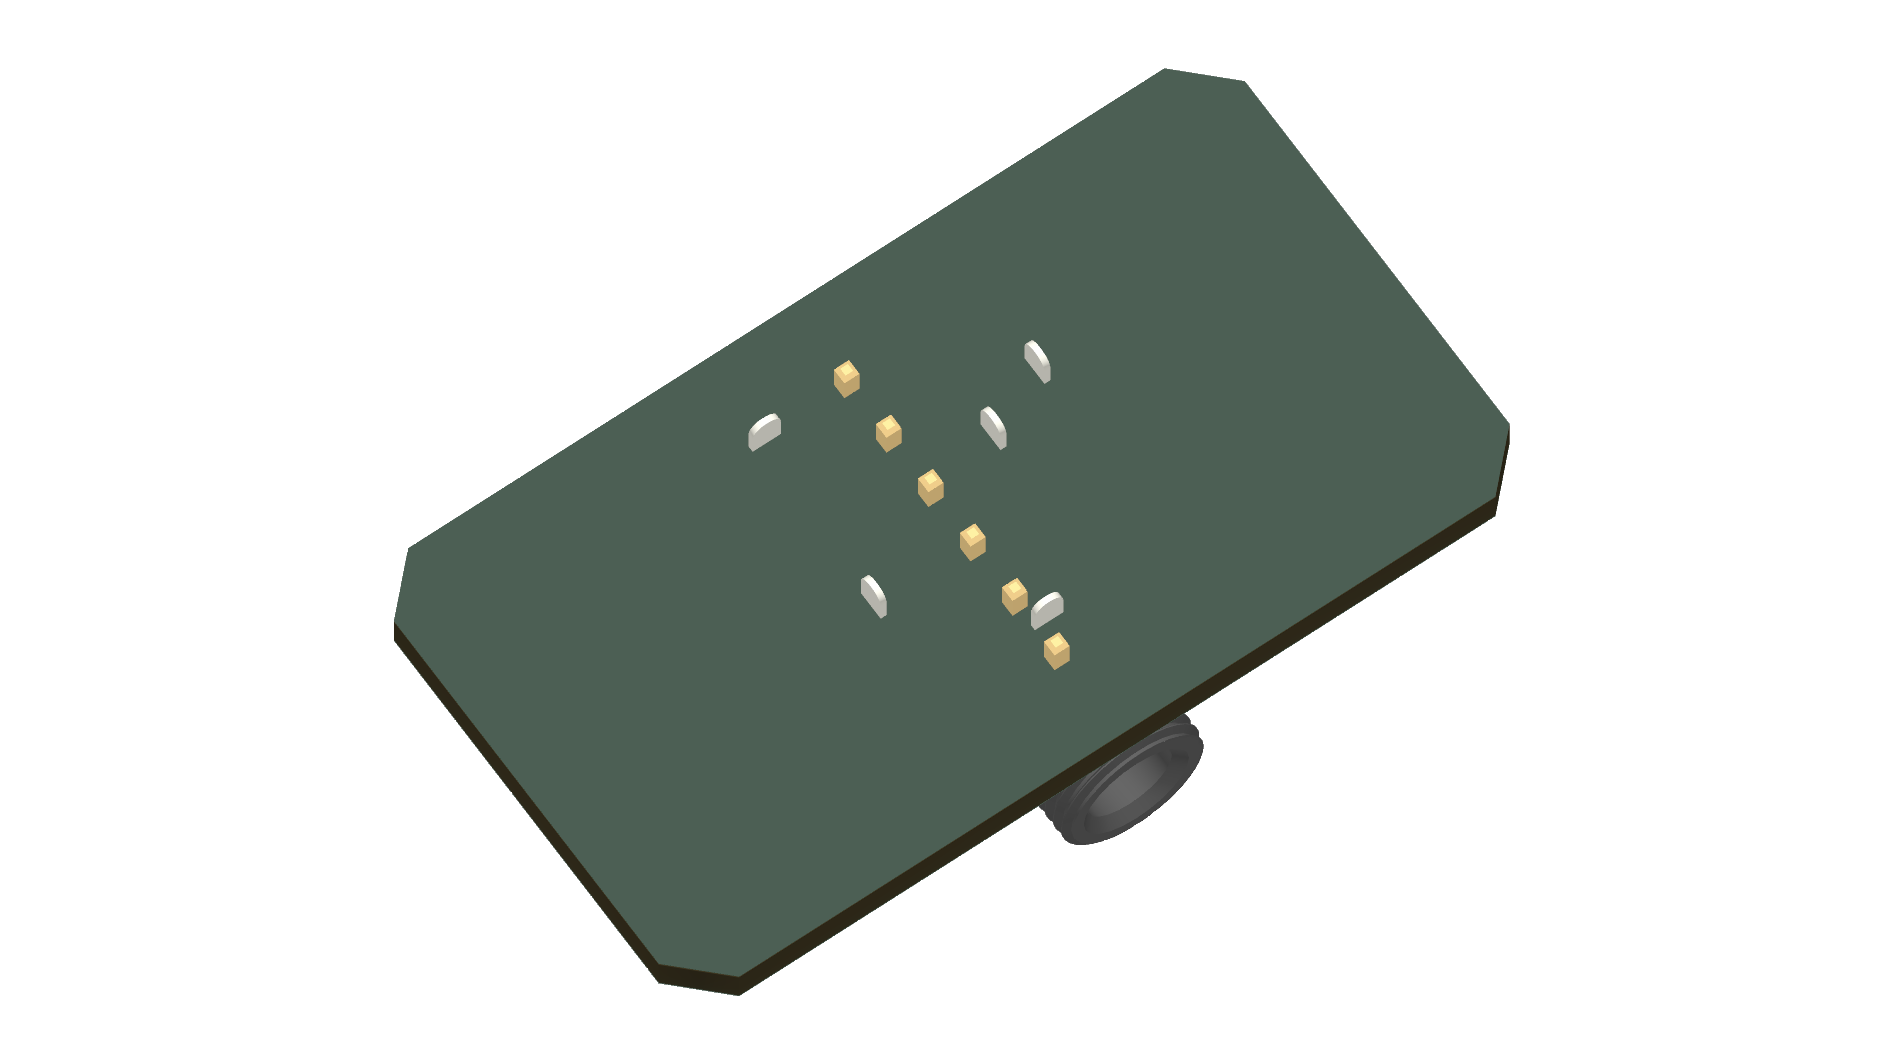
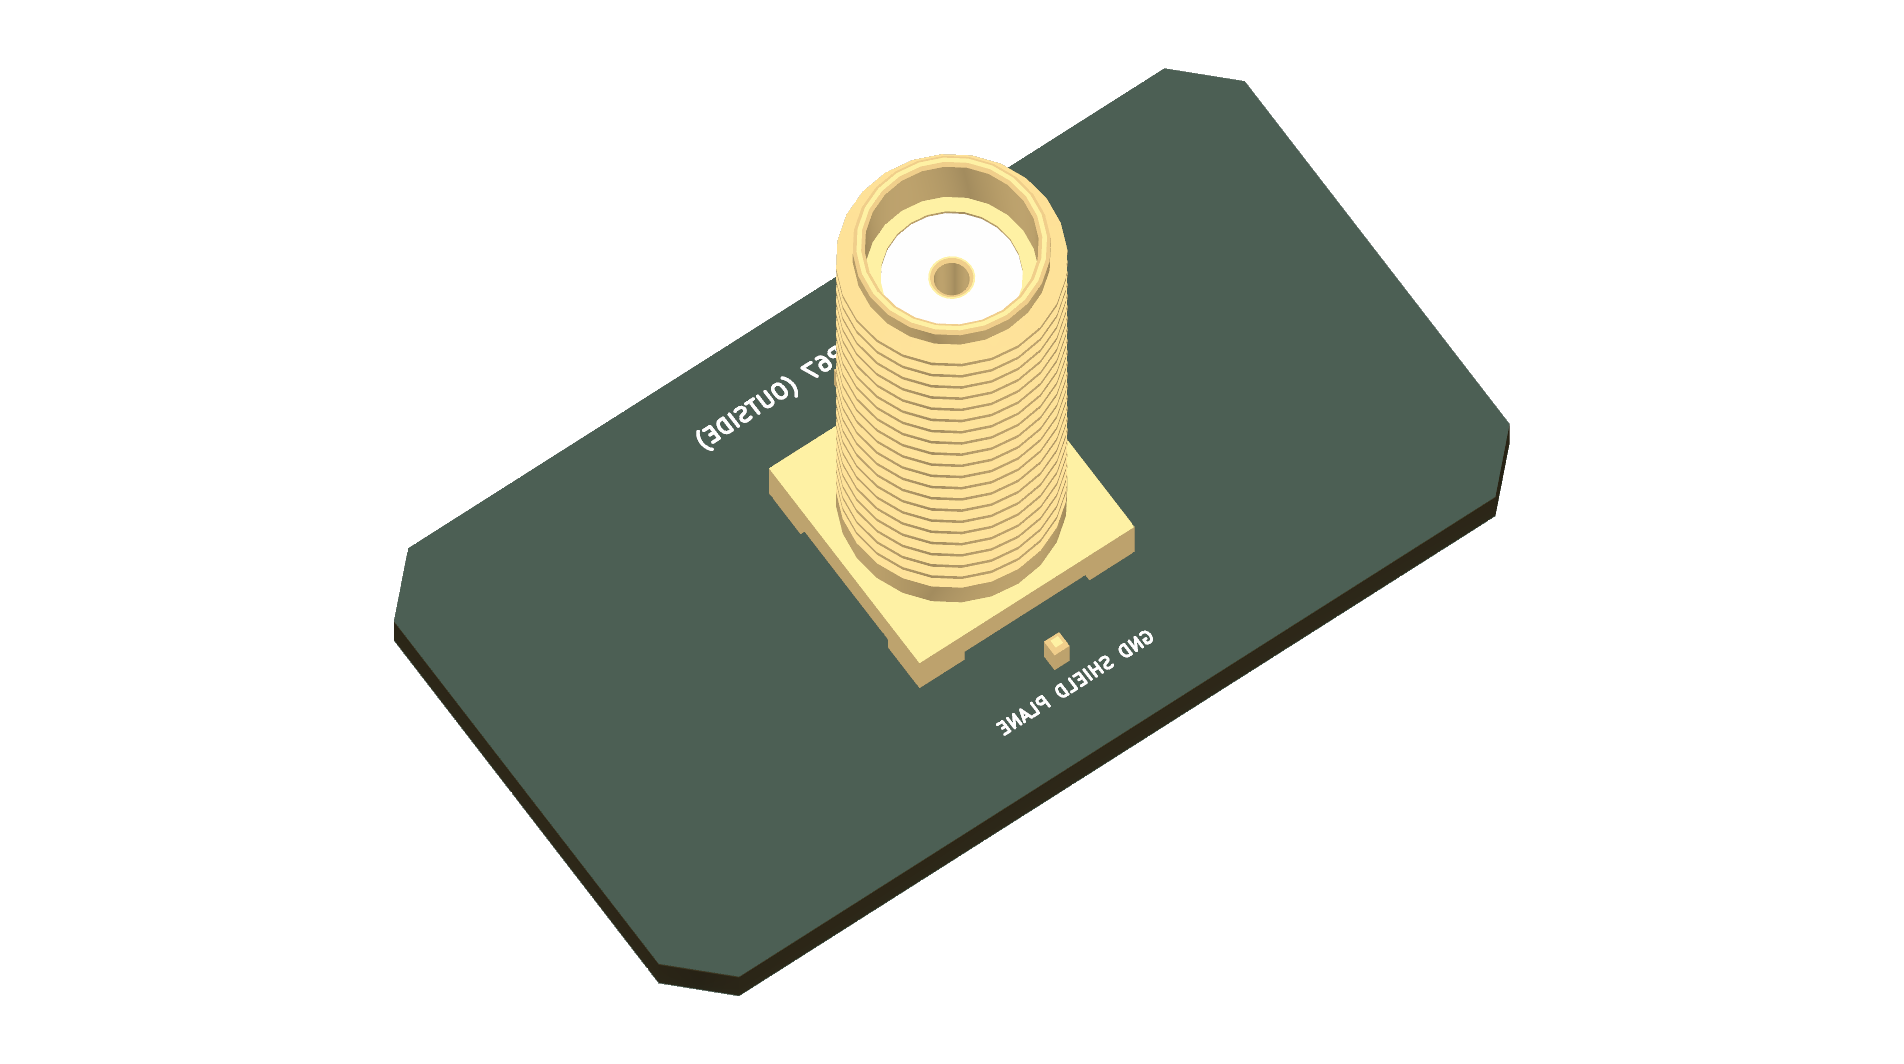
feat(hardware): center vertical M8 connector on bottom B.Cu and Pogo pins on top F.Cu of pod base PCB

diff --git a/hardware/scripts/autoplace_pod_base.py b/hardware/scripts/autoplace_pod_base.py
@@ -73,34 +73,36 @@ def generate_pod_base_pcb(pcb_path):
             (1.0, 1.0, 1.0)
         ),
         'J2': (
-            '${KICAD10_3DMODEL_DIR}/Connector_Audio.3dshapes/Jack_3.5mm_Ledino_KB3SPRS_Horizontal.step',
-            (0.0, 0.0, -90.0),
-            (4.0, -1.0, 0.0),
-            (1.0, 1.0, 1.0)
+            '${KICAD10_3DMODEL_DIR}/Connector_Coaxial.3dshapes/SMA_Amphenol_132291_Vertical.step',
+            (0.0, 0.0, 0.0),
+            (0.0, 0.0, 0.0),
+            (1.3, 1.3, 1.3) # Scaled to exact M8 8.0mm diameter
         ),
     }
 
     # Symmetrical, spacious, non-overlapping layout
+    # ref: (x_mm, y_mm, rot_deg, layer_name)
     layout_rules = {
-        # Symmetrical M2 Mounting Holes on Left & Right Flanks
-        'H1': (X0 + 3.0, Y_center, 0.0),             # (103.0, 80.0) Left Mounting Hole
-        'H2': (X0 + W - 3.0, Y_center, 0.0),         # (133.0, 80.0) Right Mounting Hole
+        # Symmetrical M2 Mounting Holes on Left & Right Flanks (Through-Hole)
+        'H1': (X0 + 3.0, Y_center, 0.0, 'F.Cu'),             # (103.0, 80.0) Left Mounting Hole
+        'H2': (X0 + W - 3.0, Y_center, 0.0, 'F.Cu'),         # (133.0, 80.0) Right Mounting Hole
 
-        # Mill-Max 6-Pin Pogo Pin Header (Centered horizontally on inner face)
-        'J1': (X_center, Y_center, 0.0),             # (118.0, 80.0) Center Inner
+        # Mill-Max 6-Pin Pogo Pin Header (OBERSEITE / INNEN: Senkrecht in den Kassettenraum ragend)
+        'J1': (X_center, Y_center, 0.0, 'F.Cu'),             # (118.0, 80.0) Oberseite / Innen
 
-        # Left Wing: ESD Protection Stage (TVS Array & 100nF Filter Cap)
-        'U1': (X0 + 8.0, Y_center - 4.0, 0.0),       # (108.0, 76.0) TVS Array
-        'C1': (X0 + 8.0, Y_center + 4.0, 0.0),       # (108.0, 84.0) 100nF Cap
+        # Left Wing: ESD Protection Stage (OBERSEITE / INNEN: Geschützte Innenlage)
+        'U1': (X0 + 8.0, Y_center - 4.0, 0.0, 'F.Cu'),       # (108.0, 76.0) TVS Array (Top)
+        'C1': (X0 + 8.0, Y_center + 4.0, 0.0, 'F.Cu'),       # (108.0, 84.0) 100nF Cap (Top)
 
-        # Integrated M8 6-Pin Panel Receptacle (Direct PCB Mount on Outer Face)
-        'J2': (X_center, Y_center, 0.0),             # (118.0, 80.0) Center Outer
+        # Integrated M8 6-Pin Panel Receptacle (UNTERSEITE / AUSSEN: Senkrecht nach außen zeigend)
+        'J2': (X_center, Y_center, 0.0, 'B.Cu'),             # (118.0, 80.0) Unterseite / Außen
     }
 
-    for ref, (x_mm, y_mm, rot_deg) in layout_rules.items():
+    for ref, (x_mm, y_mm, rot_deg, layer_name) in layout_rules.items():
         fp = pcbnew.FOOTPRINT(board)
         fp.SetReference(ref)
-        fp.SetLayer(pcbnew.F_Cu)
+        target_layer = pcbnew.B_Cu if layer_name == 'B.Cu' else pcbnew.F_Cu
+        fp.SetLayer(target_layer)
         board.Add(fp)
 
         pos = pcbnew.VECTOR2I(int(x_mm * 1e6), int(y_mm * 1e6))
@@ -118,19 +120,34 @@ def generate_pod_base_pcb(pcb_path):
             m.m_Show = True
             fp.Add3DModel(m)
 
-        print(f"  ✓ Placed {ref:4s} at ({x_mm:6.2f}, {y_mm:6.2f}) mm, rot={rot_deg:5.1f}°")
+        print(f"  ✓ Placed {ref:4s} on {layer_name:4s} at ({x_mm:6.2f}, {y_mm:6.2f}) mm, rot={rot_deg:5.1f}°")
 
-    # 3. Add Silkscreen Labels
-    labels = [
-        ("M8-ADAPTER (ADPT)", X_center, Y0 + 2.5, 0.55, 0.55, 0.12),
-        ("SP3012 TVS", X0 + 8.0, Y0 + 2.5, 0.40, 0.40, 0.10),
-        ("MILL-MAX POGO 6P", X_center, Y0 + H - 2.0, 0.50, 0.50, 0.10),
+    # 3. Add Silkscreen Labels on Top (F.SilkS) and Bottom (B.SilkS)
+    top_labels = [
+        ("OPENMOTORBRIDGE", X_center, Y0 + 2.2, 0.60, 0.60, 0.12),
+        ("SP3012 TVS", X0 + 8.0, Y0 + 2.2, 0.45, 0.45, 0.10),
+        ("MILL-MAX POGO 6P (INSIDE)", X_center, Y0 + H - 2.2, 0.50, 0.50, 0.10),
     ]
 
-    for text_str, x_mm, y_mm, sx, sy, th in labels:
+    for text_str, x_mm, y_mm, sx, sy, th in top_labels:
         txt = pcbnew.PCB_TEXT(board)
         txt.SetText(text_str)
         txt.SetLayer(pcbnew.F_SilkS)
+        txt.SetPosition(pcbnew.VECTOR2I(int(x_mm * 1e6), int(y_mm * 1e6)))
+        txt.SetTextSize(pcbnew.VECTOR2I(int(sx * 1e6), int(sy * 1e6)))
+        txt.SetTextThickness(int(th * 1e6))
+        txt.SetHorizJustify(pcbnew.GR_TEXT_H_ALIGN_CENTER)
+        board.Add(txt)
+
+    bottom_labels = [
+        ("M8 6-PIN IP67 (OUTSIDE)", X_center, Y0 + 2.5, 0.55, 0.55, 0.12),
+        ("GND SHIELD PLANE", X_center, Y0 + H - 2.5, 0.45, 0.45, 0.10),
+    ]
+
+    for text_str, x_mm, y_mm, sx, sy, th in bottom_labels:
+        txt = pcbnew.PCB_TEXT(board)
+        txt.SetText(text_str)
+        txt.SetLayer(pcbnew.B_SilkS)
         txt.SetPosition(pcbnew.VECTOR2I(int(x_mm * 1e6), int(y_mm * 1e6)))
         txt.SetTextSize(pcbnew.VECTOR2I(int(sx * 1e6), int(sy * 1e6)))
         txt.SetTextThickness(int(th * 1e6))
